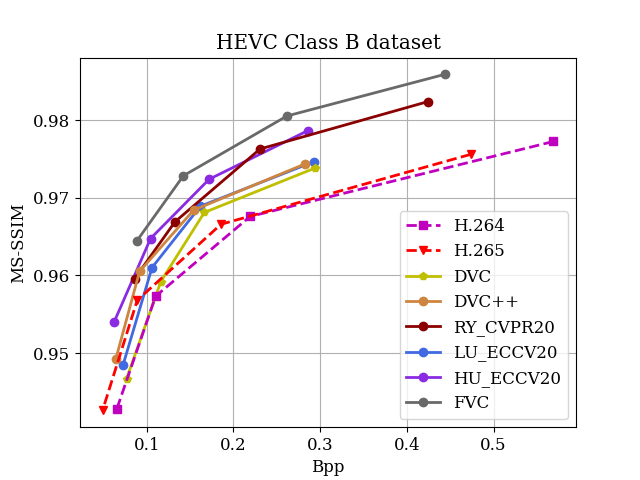
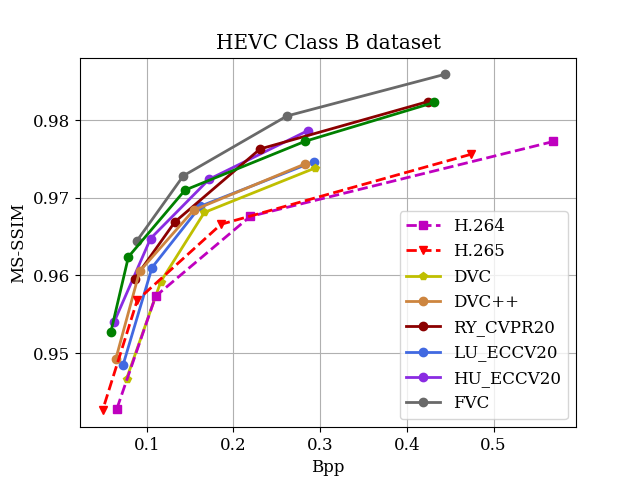
Add Liu et al.

diff --git a/Benchmark/draw_HEVC.py b/Benchmark/draw_HEVC.py
@@ -25,6 +25,9 @@ def drawhevc(hclass):
         bpp, psnr = [0.0688, 0.1093, 0.1883, 0.3536], [31.7031, 33.2380, 34.5965, 35.7882]
         RY, = plt.plot(bpp, psnr, "c-o", color="darkred", linewidth=LineWidth, label='RY_CVPR20')
 
+        bpp, psnr = [0.0585, 0.0788, 0.1441, 0.2829, 0.4317], [32.0663, 33.2903, 34.5443, 35.5753, 36.2262]
+        Liu, = plt.plot(bpp, psnr, "c-o", color="green", linewidth=LineWidth, label='Liu et al.')
+
         # bpp = [0.0661, 0.09362000000000001, 0.14695999999999998, 0.2232]
         # psnr = [32.721524294756705, 33.61284158051482, 34.75174138791608, 35.718610694312616]
         # msssim = [0.959144, 0.964186, 0.97111, 0.9765840000000001]
@@ -59,6 +62,9 @@ def drawhevc(hclass):
         
         bpp, psnr = [0.1117, 0.1951, 0.3158, 0.5441], [28.4321, 30.4874, 32.2846, 34.2527]
         RY, = plt.plot(bpp, psnr, "c-o", color="darkred", linewidth=LineWidth, label='RY_CVPR20')
+
+        bpp, psnr = [0.0996, 0.1481, 0.2522, 0.3971, 0.5109], [28.8004, 29.9462, 31.7668, 32.935, 33.4272]
+        Liu, = plt.plot(bpp, psnr, "c-o", color="green", linewidth=LineWidth, label='Liu et al.')
         
         # bpp = [0.12157499999999999, 0.17965, 0.271025, 0.38745]
         # psnr = [28.63609903605147, 29.944387388321196, 31.54062511303266, 33.03500011196936]
@@ -95,6 +101,9 @@ def drawhevc(hclass):
         bpp, psnr = [0.1173, 0.1990, 0.3347, 0.5589], [28.6544, 30.8125, 32.7950, 34.7743]
         RY, = plt.plot(bpp, psnr, "c-o", color="darkred", linewidth=LineWidth, label='RY_CVPR20')
 
+        bpp, psnr = [0.1018, 0.1486, 0.2473, 0.3817, 0.4838], [28.9021, 30.2752, 31.9603, 33.3702, 34.0233]
+        Liu, = plt.plot(bpp, psnr, "c-o", color="green", linewidth=LineWidth, label='Liu et al.')
+
         
         # bpp = [0.11227499999999999, 0.17395000000000002, 0.264575, 0.38207500000000005]
         # psnr = [28.82520179437781, 30.23478970812226, 31.91116994008828, 33.53631860458036]
@@ -128,6 +137,9 @@ def drawhevc(hclass):
         bpp, psnr = [0.11462,0.069586667,0.050683333,0.037183333], [40.11296333,38.96264,37.73251333,36.31533667]
         LU, = plt.plot(bpp, psnr, "c-o", color="royalblue", linewidth=LineWidth, label='LU_ECCV20')
 
+        bpp, psnr = [0.015, 0.0195, 0.0343, 0.0775, 0.1183], [35.3255, 36.647, 37.8434, 38.7762, 39.7742]
+        Liu, = plt.plot(bpp, psnr, "c-o", color="green", linewidth=LineWidth, label='Liu et al.')
+
         # bpp = [0.02223333333333333, 0.0281, 0.04416666666666667, 0.06459999999999999]
         # psnr = [36.119993400198794, 36.895272069830746, 37.95133358562974, 38.59336757723919]
         # msssim = [0.97991, 0.98177, 0.9831466666666667, 0.98547]
@@ -158,9 +170,9 @@ def drawhevc(hclass):
     if not os.path.exists(prefix):
         os.makedirs(prefix)    
     if hclass != 'E':
-        plt.legend(handles=[h264, h265, DVC, DVCp, RY, LU, RaFC, FVC], loc=4)
+        plt.legend(handles=[h264, h265, DVC, DVCp, RY, Liu, LU, RaFC, FVC], loc=4)
     else:
-        plt.legend(handles=[h264, h265, DVC, DVCp, LU, RaFC, FVC], loc=4)
+        plt.legend(handles=[h264, h265, DVC, DVCp, Liu, LU, RaFC, FVC], loc=4)
 
     plt.grid()
     plt.xlabel('Bpp')
@@ -183,6 +195,9 @@ def drawhevc(hclass):
         
         bpp, msssim = [0.0861, 0.1324, 0.2307, 0.4242], [0.9596, 0.9669, 0.9763, 0.9824]
         RY, = plt.plot(bpp, msssim, "c-o", color="darkred", linewidth=LineWidth, label='RY_CVPR20')
+
+        bpp, msssim = [0.0585, 0.0788, 0.1441, 0.2829, 0.4317], [0.9527, 0.9624, 0.971, 0.9773, 0.9823]
+        Liu, = plt.plot(bpp, msssim, "c-o", color="green", linewidth=LineWidth, label='Liu et al.')
 
         # bpp = [0.0661, 0.09362000000000001, 0.14695999999999998, 0.2232]
         # psnr = [32.721524294756705, 33.61284158051482, 34.75174138791608, 35.718610694312616]
@@ -219,6 +234,9 @@ def drawhevc(hclass):
         
         bpp, msssim = [0.1147, 0.1551, 0.2581, 0.4118], [0.9565, 0.9624, 0.9790, 0.9856]
         RY, = plt.plot(bpp, msssim, "c-o", color="darkred", linewidth=LineWidth, label='RY_CVPR20')
+
+        bpp, msssim = [0.0996, 0.1481, 0.2522, 0.3971, 0.5109], [0.9605, 0.9717, 0.9806, 0.9854, 0.988]
+        Liu, = plt.plot(bpp, msssim, "c-o", color="green", linewidth=LineWidth, label='Liu et al.')
 
 
         # bpp = [0.12157499999999999, 0.17965, 0.271025, 0.38745]
@@ -257,6 +275,9 @@ def drawhevc(hclass):
         bpp, msssim = [0.1072, 0.1496, 0.2376, 0.3794], [0.9633, 0.9693, 0.9833, 0.9891]
         RY, = plt.plot(bpp, msssim, "c-o", color="darkred", linewidth=LineWidth, label='RY_CVPR20')
 
+        bpp, msssim = [0.1018, 0.1486, 0.2473, 0.3817, 0.4838], [0.9676, 0.9774, 0.9844, 0.9888, 0.9912]
+        Liu, = plt.plot(bpp, msssim, "c-o", color="green", linewidth=LineWidth, label='Liu et al.')
+
         
         # bpp = [0.11227499999999999, 0.17395000000000002, 0.264575, 0.38207500000000005]
         # psnr = [28.82520179437781, 30.23478970812226, 31.91116994008828, 33.53631860458036]
@@ -289,6 +310,9 @@ def drawhevc(hclass):
 
         bpp, msssim = [0.11462,0.069586667,0.050683333,0.037183333], [0.988766667, 0.9864, 0.982756667, 0.976416667]
         LU, = plt.plot(bpp, msssim, "c-o", color="royalblue", linewidth=LineWidth, label='LU_ECCV20')
+
+        bpp, msssim = [0.015, 0.0195, 0.0343, 0.0775, 0.1183], [0.9766, 0.9807, 0.9831, 0.9851, 0.988]
+        Liu, = plt.plot(bpp, msssim, "c-o", color="green", linewidth=LineWidth, label='Liu et al.')
 
         # bpp = [0.02223333333333333, 0.0281, 0.04416666666666667, 0.06459999999999999]
         # psnr = [36.119993400198794, 36.895272069830746, 37.95133358562974, 38.59336757723919]

diff --git a/Benchmark/draw_uvg.py b/Benchmark/draw_uvg.py
@@ -34,6 +34,9 @@ EA, = plt.plot(bpp, psnr, "g-o", color="orange", linewidth=LineWidth, label='EA_
 bpp, msssim = [0.0524, 0.0781, 0.1278, 0.2303], [34.5390, 35.8618, 37.1899, 38.4590]
 RY, = plt.plot(bpp, msssim, "c-o", color="darkred", linewidth=LineWidth, label='RY_CVPR20')
 
+bpp, psnr = [0.0437, 0.0612, 0.1083, 0.2128, 0.3112], [34.7485, 35.98, 37.1427, 38.2256, 39.0707]
+Liu, = plt.plot(bpp, psnr, "c-o", color="green", linewidth=LineWidth, label='Liu et al.')
+
 bpp = [0.12377, 0.16239, 0.1983, 0.229, 0.2699, 0.3113]
 psnr = [36.0736, 36.663, 36.9157, 37.1818, 37.5149, 37.6513]
 eccv, = plt.plot(bpp, psnr, "b-*", linewidth=LineWidth, label='CW_ECCV18')
@@ -60,7 +63,7 @@ savepathpsnr = prefix + '/UVG_psnr'
 print(prefix)
 if not os.path.exists(prefix):
     os.makedirs(prefix)
-plt.legend(handles=[h264, h265, DVC, DVCp, eccv, iccv, EA, LU, rafc], loc=4)
+plt.legend(handles=[h264, h265, DVC, DVCp, eccv, iccv, EA, RY, Liu, LU, rafc], loc=4)
 plt.grid()
 plt.xlabel('Bpp')
 plt.ylabel('PSNR')
@@ -91,6 +94,9 @@ EA, = plt.plot(bpp, psnr, "g-o", color="orange", linewidth=LineWidth, label='EA_
 bpp, msssim = [0.0764, 0.1133, 0.2125, 0.3839], [0.9640, 0.9693, 0.9779, 0.9832]
 RY, = plt.plot(bpp, msssim, "c-o", color="darkred", linewidth=LineWidth, label='RY_CVPR20')
 
+bpp, msssim = [0.0437, 0.0612, 0.1083, 0.2128, 0.3112], [0.9537, 0.9619, 0.97, 0.9777, 0.9826]
+Liu, = plt.plot(bpp, psnr, "c-o", color="green", linewidth=LineWidth, label='Liu et al.')
+
 bpp = [0.12377, 0.16239, 0.1983, 0.229, 0.2699, 0.3113]
 msssim = [0.96126, 0.96591, 0.96708, 0.96867, 0.97117, 0.97186]
 eccv, = plt.plot(bpp, msssim, "b-*", linewidth=LineWidth, label='CW_ECCV18')
@@ -116,7 +122,7 @@ h265, = plt.plot(bpp, msssim, "r--v", linewidth=LineWidth, label='H.265')
 
 
 savepathmsssim = prefix + '/' + 'UVG_msssim'# + '.eps'
-plt.legend(handles=[h264, h265, DVC, DVCp, eccv, ha_iccv, iccv, EA, LU, rafc], loc=4)
+plt.legend(handles=[h264, h265, DVC, DVCp, eccv, ha_iccv, iccv, EA, RY, Liu, LU, rafc], loc=4)
 plt.grid()
 plt.xlabel('Bpp')
 plt.ylabel('MS-SSIM')

diff --git a/Benchmark/README.md b/Benchmark/README.md
@@ -12,7 +12,8 @@
 - <font color="#8A2BE2">HU_ECCV20</font> : [Improving Deep Video Compression by Resolution-adaptive Flow Coding](http://www.ecva.net/papers/eccv_2020/papers_ECCV/papers/123470188.pdf)
 - <font color="#696969">FVC</font> : [FVC: A New Framework towards Deep Video Compression in Feature Space](https://arxiv.org/pdf/2105.09600.pdf)
 - <font color="#4169E1">LU_ECCV20</font> : [Content Adaptive and Error Propagation Aware Deep Video Compression](https://arxiv.org/pdf/2003.11282.pdf)
-- <font color="#ff8c0f">M-LVC</font> : [M-LVC: Multiple Frames Prediction for Learned Video Compression](https://arxiv.org/abs/2004.10290) (questionable)
+- <font color="#15b01a">Liu et al.</font> : [Learned Video Compression with Residual Prediction and Loop Filter](https://arxiv.org/pdf/2108.08551.pdf)
+<!-- - <font color="#ff8c0f">M-LVC</font> : [M-LVC: Multiple Frames Prediction for Learned Video Compression](https://arxiv.org/abs/2004.10290) (questionable) -->
 
 
 ## HEVC Class A dataset
@@ -44,16 +45,16 @@
 
 BDBR results (%) when compared with H.264. Negative values in BDBR indicate bit-rate savings.
 
-| Datasets             | H.265  | DVC    | DVC++  | AD_ICCV19 | RY_CVPR20 | EA_CVPR20 | LU_ECCV20 | HU_ECCV20 | FVC    |
-|:-----------------    | :----: | :----: | :----: | :-------: | :-------: | :-------: | :-------: | :-------: | :----: |
-| HEVC Class A Dataset | -14.75 | -24.53 |        |           |           |           |           | -32.32    | -38.62 |
-| HEVC Class B Dataset | -21.95 | -18.18 | -35.75 |           |  -28.94   |           |  -33.55   | -33.49    | -39.72 |
-| HEVC Class C Dataset | -14.48 |  1.60  | -14.62 |           |  -4.83    |           |  -17.70   | -14.30    | -26.40 |
-| HEVC Class D Dataset | -12.40 | -1.57  | -18.69 |           |  -21.47   |           |  -19.35   | -15.13    | -28.31 |
-| HEVC Class E Dataset | -30.81 | -26.91 | -42.24 |           |           |           |  -36.85   | -44.60    | -42.16 |
-| UVG Dataset          | -26.07 | -19.39 | -39.91 |  -47.39   |           |  -32.40   |  -30.52   | -35.76    | -46.28 |
-| MCL Dataset          | -23.86 | -14.51 |        |  -8.89    |           |  -24.74   |  -20.62   | -35.01    | -40.52 |
-| VTL Dataset          | -12.31 | -21.93 |        |  -12.25   |           |           |  -27.06   | -30.04    | -36.53 |
+| Datasets             | H.265  | DVC    | DVC++  | AD_ICCV19 | RY_CVPR20 | EA_CVPR20 | Liu et al. | LU_ECCV20 | HU_ECCV20 | FVC    |
+|:-----------------    | :----: | :----: | :----: | :-------: | :-------: | :-------: | :--------: | :-------: | :-------: | :----: |
+| HEVC Class A Dataset | -14.75 | -24.53 |        |           |           |           |            |           | -32.32    | -38.62 |
+| HEVC Class B Dataset | -21.95 | -18.18 | -35.75 |           |  -28.94   |           |   -46.38   |  -33.55   | -33.49    | -39.72 |
+| HEVC Class C Dataset | -14.48 |  1.60  | -14.62 |           |  -4.83    |           |   -12.81   |  -17.70   | -14.30    | -26.40 |
+| HEVC Class D Dataset | -12.40 | -1.57  | -18.69 |           |  -21.47   |           |   -29.88   |  -19.35   | -15.13    | -28.31 |
+| HEVC Class E Dataset | -30.81 | -26.91 | -42.24 |           |           |           |   -51.95   |  -36.85   | -44.60    | -42.16 |
+| UVG Dataset          | -26.07 | -19.39 | -39.91 |  -47.39   |           |  -32.40   |   -41.74   |  -30.52   | -35.76    | -46.28 |
+| MCL Dataset          | -23.86 | -14.51 |        |  -8.89    |           |  -24.74   |            |  -20.62   | -35.01    | -40.52 |
+| VTL Dataset          | -12.31 | -21.93 |        |  -12.25   |           |           |            |  -27.06   | -30.04    | -36.53 |
 
 
 ## Setting of H.264 and H.265
